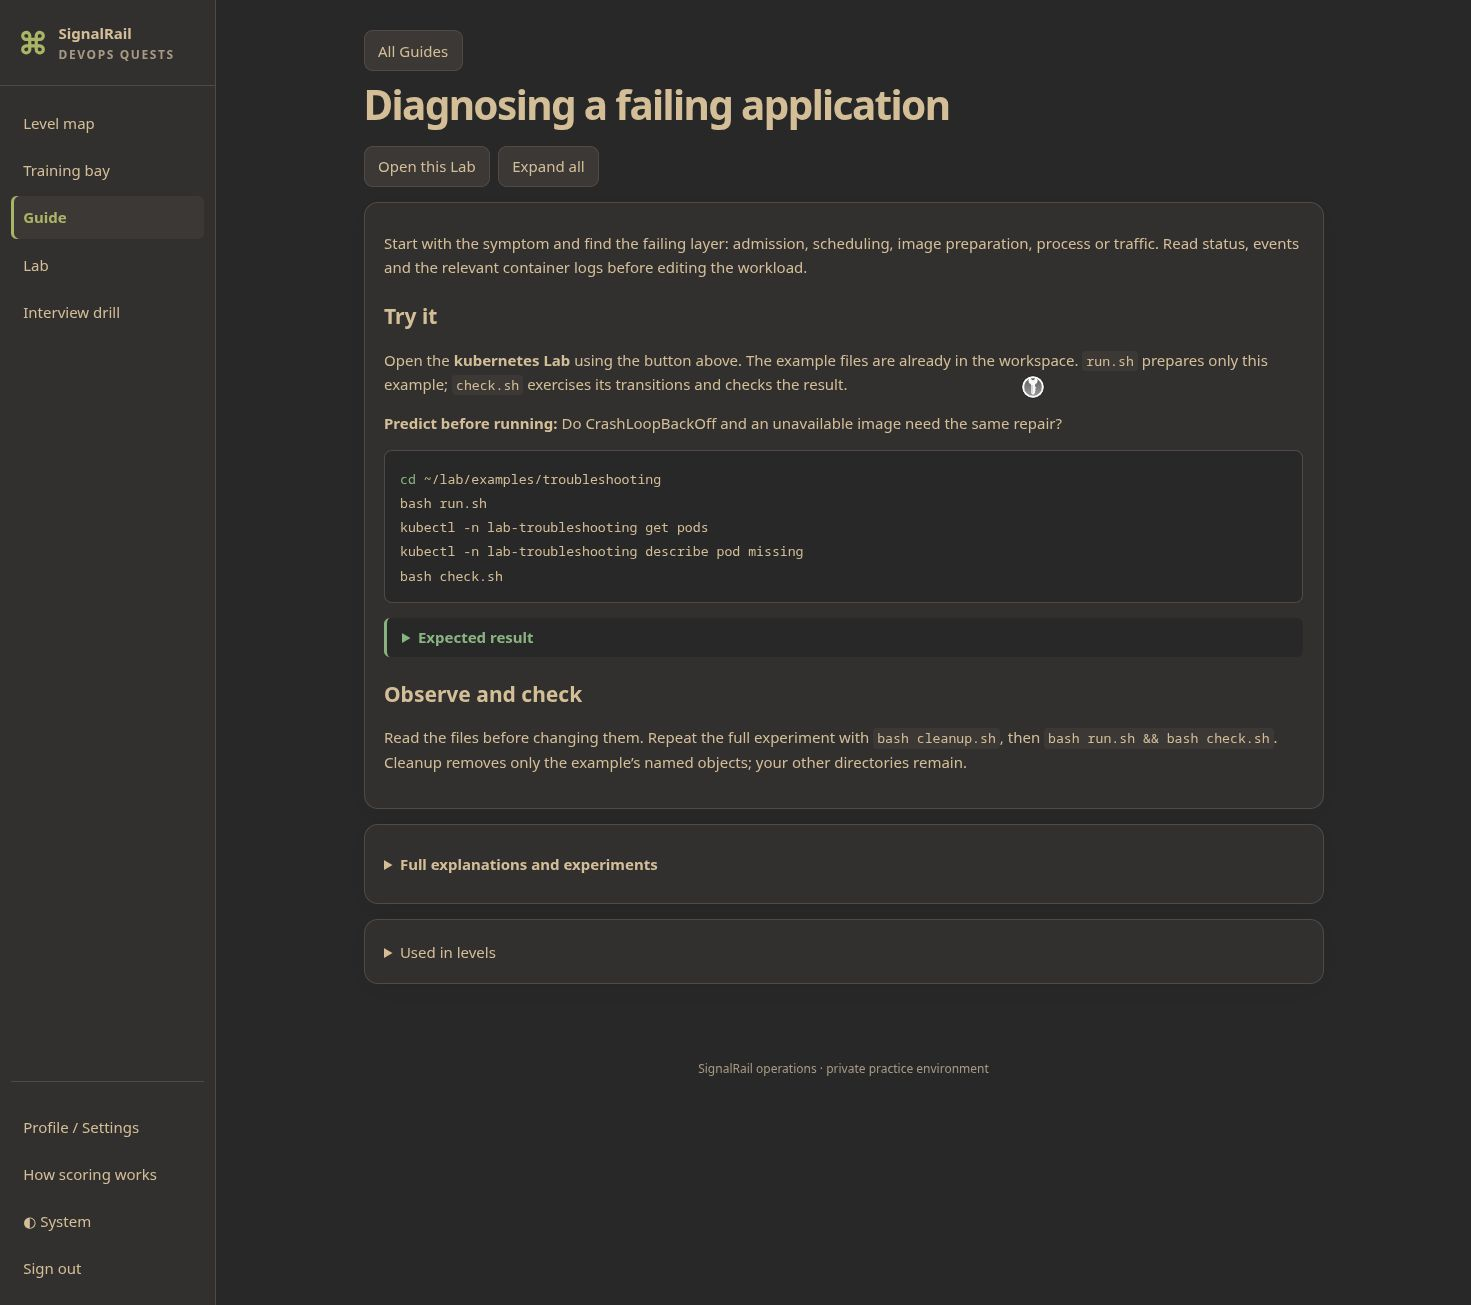
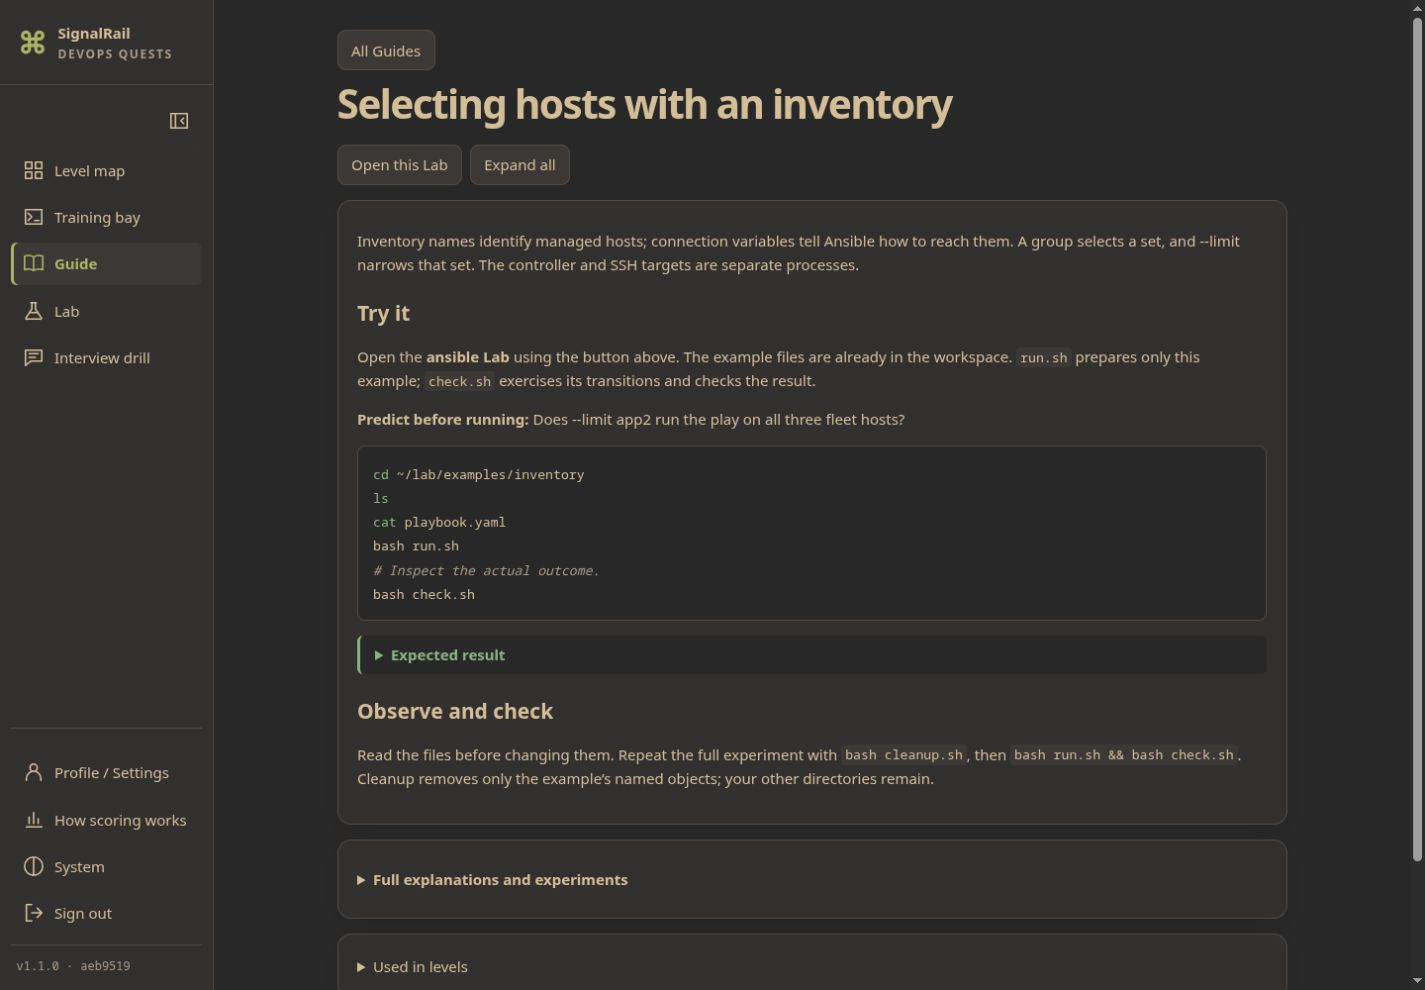
docs: refresh screenshots and link related learning project

diff --git a/README.md b/README.md
@@ -10,6 +10,8 @@ Designed and operated by [Aleksey Bevz](https://www.linkedin.com/in/aleksey-bevz
 
 ![Level map from a clean Linux installation with a synthetic demo account](docs/screenshots/level-map.png)
 
+[Running quest: briefing, isolated terminal and collapsed navigation](docs/screenshots/quest.png).
+
 ## What's inside
 
 The [catalog](levels.yaml) contains **130 quests** across four difficulty bands:
@@ -61,6 +63,11 @@ Enter your own password at the hidden prompt. The first start prepares offline a
 Designed, specified, reviewed and operated by [Aleksey Bevz](https://www.linkedin.com/in/aleksey-bevz/).
 Most of the code was written by AI coding agents working to that design; the architecture, requirements,
 curriculum, acceptance checks, infrastructure and operations are mine.
+
+## Related projects
+
+- [ViktorUJ/cks](https://github.com/ViktorUJ/cks) — open-source platform for learning Kubernetes and AWS EKS and
+  preparing for the CKA, CKS, CKAD and ICA certification exams.
 
 ## Contributing and documentation
 
